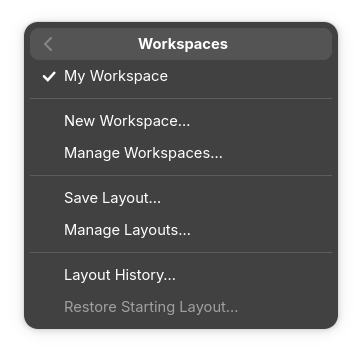
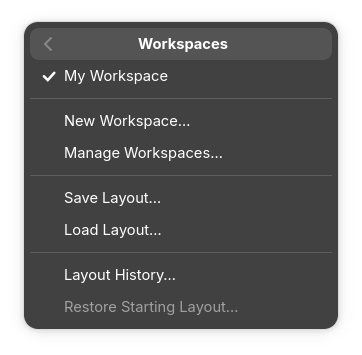
Finalize approved GTK workspace manager and host handoff

Changed region(s): [[0.1823, 0.6197, 0.5166, 0.6817]]

diff --git a/apps/layer-linux/src/tests.rs b/apps/layer-linux/src/tests.rs
@@ -13648,7 +13648,7 @@ fn native_workspace_menu_input() {
             );
             let workspace = menu_label(popup.upcast_ref(), "Workspaces").unwrap();
             click(popup_point(&popup, &workspace), 272);
-            let templates = menu_label(popup.upcast_ref(), "Manage Layouts…").unwrap();
+            let templates = menu_label(popup.upcast_ref(), "Load Layout…").unwrap();
             click(popup_point(&popup, &templates), 272);
             assert!(w.workspaces.ui.dialog.is_visible());
             assert!(find_button(w.window.upcast_ref(), "Load Layout").is_some());
@@ -13693,6 +13693,19 @@ fn native_workspace_menu_input() {
                     .as_deref(),
                 Some("Save Layout")
             );
+            assert_eq!(
+                entry.downcast_ref::<gtk::Entry>().unwrap().text().as_str(),
+                format!(
+                    "{} Layout",
+                    w.workspaces
+                        .manager
+                        .as_ref()
+                        .unwrap()
+                        .active_name()
+                        .unwrap()
+                )
+            );
+            crate::capture(&w, dir.join("Save-Layout.png").to_str().unwrap());
             let cancel = find_button(&prompt, "Cancel")
                 .unwrap()
                 .compute_bounds(&w.window)

diff --git a/crates/layer-ui/src/session.rs b/crates/layer-ui/src/session.rs
@@ -3938,7 +3938,7 @@ mod tests {
                 .collect::<Vec<_>>(),
             vec![
                 vec!["New Workspace…", "Manage Workspaces…"],
-                vec!["Save Layout…", "Manage Layouts…"],
+                vec!["Save Layout…", "Load Layout…"],
                 vec!["Layout History…", "Restore Starting Layout…"],
             ]
         );
@@ -3952,7 +3952,7 @@ mod tests {
                 .sections
                 .iter()
                 .flatten()
-                .any(|item| item.label == "Manage Layouts…")
+                .any(|item| item.label == "Load Layout…")
         );
         assert_eq!(menu.sections[1].len(), 2);
         let toolbars = &menu.sections[1][1];

diff --git a/apps/layer-linux/src/workspace_manager_actions.rs b/apps/layer-linux/src/workspace_manager_actions.rs
@@ -435,7 +435,9 @@ impl NativeWorkspaces {
         let mut name = match &action {
             A::Rename(_) => source.as_ref().unwrap().entity.metadata.name.clone(),
             A::Duplicate(_) => format!("{} Copy", source.as_ref().unwrap().entity.metadata.name),
-            A::SaveAsTemplate(_) => source.as_ref().unwrap().entity.metadata.name.clone(),
+            A::SaveAsTemplate(_) => {
+                format!("{} Layout", source.as_ref().unwrap().entity.metadata.name)
+            }
             A::SaveToolbar(panel) => manager
                 .current()
                 .unwrap()

diff --git a/crates/layer-ui/src/workspace_manager_ui.rs b/crates/layer-ui/src/workspace_manager_ui.rs
@@ -70,7 +70,7 @@ impl ManagedWorkspace {
                 ],
                 vec![
                     command("Save Layout…", WorkspaceCommand::SaveAsTemplate, idle),
-                    command("Manage Layouts…", WorkspaceCommand::ManageTemplates, true),
+                    command("Load Layout…", WorkspaceCommand::ManageTemplates, true),
                 ],
                 vec![
                     command("Layout History…", WorkspaceCommand::LayoutHistory, idle),

diff --git a/docs/ui/workspace-manager-host-handoff.md b/docs/ui/workspace-manager-host-handoff.md
@@ -1,0 +1,168 @@
+# Workspace manager: approved host implementation handoff
+
+The user approved the GTK design on 2026-09-12. Other-platform implementation can
+start. This document and the [GTK visual reference](workspace-manager-gtk-redesign.md)
+define the approved scope. The [original proposal](workspace-manager-proposal.md)
+and its review are historical background; their larger UI is superseded.
+
+## Product contract
+
+| Term | Meaning |
+| --- | --- |
+| Workspace | A named layout and its latest tool settings, saved automatically for a task |
+| Saved layout | A named, reusable arrangement of tools and panels, including toolbar configuration |
+| Layout History | Earlier arrangements of the current workspace; excludes historical tool settings and document edits |
+| Starting layout | The workspace's original arrangement, retained even after loading another saved layout |
+
+Use the exact shared captions and introductory copy in
+[`workspace_manager_ui.rs`](../../crates/layer-ui/src/workspace_manager_ui.rs) and
+the GTK reference. Internal names such as `Template`, `ManageTemplates`,
+`SaveAsTemplate`, and `UseTemplate` are compatibility vocabulary, not UI wording.
+Do not rename serialized record kinds, command IDs, or package formats just to
+match the visible Layout terminology.
+
+## Approved UI and behavior
+
+The Window menu starts with Undo Layout Change / Redo Layout Change, then
+Workspaces, then Quick Access Toolbars, followed by the direct panel rows.
+Quick Access Toolbars is a sibling directly below Workspaces. Panel and toolbar
+visibility names omit the redundant "panel" and "toolbar" suffixes.
+
+Workspaces contains recent workspace choices followed by three sections:
+
+1. New Workspace… / Manage Workspaces…
+2. Save Layout… / Load Layout…
+3. Layout History… / Restore Starting Layout…
+
+Recent workspace menu choices switch directly. The manager dialogs use preview
+selection and explicit confirmation instead:
+
+- **Workspaces:** compact selectable list, top-right square + for New Workspace,
+  per-row Rename/Delete options, Cancel and Switch to Workspace below the list.
+  Initially select the current workspace and disable its Switch button. An item
+  already owned by another window offers Switch to Window through the existing
+  ownership policy.
+- **Saved Layouts:** opened by Load Layout…, with a top-right + for Save Layout,
+  per-row Rename/Delete for user entries, Cancel and Load Layout below the list.
+  Initially no row is selected and Load Layout is disabled. The included Default
+  layout can be loaded but cannot be renamed/deleted. Save Layout suggests
+  `<workspace name> Layout`; the name is editable and ordinary collision handling
+  remains in place.
+- **Layout History — <workspace name>:** one scrollable list of versions, Cancel,
+  and Restore This Version. Select the current version initially and disable its
+  Restore button. Entries identify affected panels/toolbars and the action/date.
+  Do not add "select a version to preview" instructions.
+
+In all three dialogs, row selection, double-click, and Enter on a row only preview
+the arrangement in the actual editor behind the dialog. Confirming with the
+button finalizes it. Cancel, Escape, back navigation, and native modal dismissal
+restore the original arrangement. Use opaque dialogs and a light enough backdrop
+to see the preview. Adapt sizing to the host and viewport without changing these
+semantics; retain keyboard focus, accessibility labels, and scrollable lists.
+
+New Workspace supports a name and starting layout. Starting from Current layout
+copies the current working settings into a new independent history. Starting from
+a saved layout uses default working settings. Loading a saved layout into an
+existing workspace preserves its identity, starting layout, and working settings.
+It creates one undoable layout change, or no event if the layout is identical.
+Restore Starting Layout restores the original baseline with one undoable change.
+
+Keep the existing simple toolbar management flow. Do not add Recently Deleted,
+backup/import/export, metadata or saved-layout version screens, duplication/update
+controls, network sync, or device-specific layout variants. Some underlying APIs
+remain for compatibility and retention; their existence does not expand the UI.
+Failed saves still need the existing Retry / Save as New Workspace recovery, and
+failed close must preserve the option to keep the window open.
+
+## Shared implementation to reuse
+
+| Responsibility | Reference |
+| --- | --- |
+| Working state, captures, prepared adoption, temporary previews | [`workspace_session.rs`](../../crates/layer-ui/src/workspace_session.rs) |
+| Menu and command dispatch | [`workspace_manager_ui.rs`](../../crates/layer-ui/src/workspace_manager_ui.rs), `UiSession::workspace_menu` |
+| Entity validation, storage policy, ownership, mutations | [`layer-workspace`](../../crates/layer-workspace/src/lib.rs), `WorkspaceManager<S>` |
+| Lists, action availability, prompts | [`presentation.rs`](../../crates/layer-workspace/src/presentation.rs) |
+| Asynchronous store protocol | [`protocol.rs`](../../crates/layer-workspace/src/protocol.rs), `WorkspaceStore::execute` |
+| Native SQLite and worker | [`sqlite.rs`](../../crates/layer-workspace/src/sqlite.rs), [`worker.rs`](../../crates/layer-workspace/src/worker.rs) |
+| GTK lifecycle and recovery reference | [`workspace_manager.rs`](../../apps/layer-linux/src/workspace_manager.rs), `workspace_manager_actions.rs`, `workspace_manager_storage.rs` |
+| GTK selection/confirmation and preview lifetime | [`workspace_manager_dialog.rs`](../../apps/layer-linux/src/workspace_manager_dialog.rs), [`workspace_history_dialog.rs`](../../apps/layer-linux/src/workspace_history_dialog.rs) |
+
+Hosts own toolkit controls, async transport, lifecycle notifications, and native
+window focus. Keep workspace decisions in shared Rust. In particular:
+
+- Capture accepted edits through `capture_workspace`/`workspace_working_state`;
+  use `WorkspaceManager` for autosave, naming, loading, claims, and publication.
+  Do not serialize widget state or implement a second workspace model in a host.
+- Switch/adopt only at a document/workspace idle boundary. Prepare and validate the
+  incoming capture, retain the outgoing state on failure, and use
+  `PreparedWorkspace`/`adopt_workspace`. The legacy `RestoreWorkspace` action
+  clears history and is not the named-workspace adoption path.
+- During previews, hold the workspace transition, block editor mutations/autosave
+  of temporary arrangements, and renew ownership with `OWNER_RENEW_MS`. Durable
+  captures must still return the pre-preview state. Cancel the preview before
+  beginning Save/New/Rename/Delete or committing a selection. Resume it only if
+  the manager remains open after a secondary action.
+- Invalidate asynchronous loads when selection, search results, dialog lifetime,
+  or workspace changes. Clearing the selection restores the original layout and
+  disables confirmation. Late replies must not resurrect a cancelled preview.
+- Use fenced writes and immutable operation receipts. Retry the original operation
+  without duplicating history/items; never overwrite another window's workspace
+  after suspension or ownership loss. Preserve pending edits on save failures.
+- Preserve the existing retained-control rendering and resize behavior. Workspace
+  integration should not introduce database I/O or widget rebuilding on pointer
+  motion paths, or disturb document strokes, transforms, undo, or rendering.
+
+## Platform work and coordination
+
+| Host | Work still required |
+| --- | --- |
+| Web (`apps/layer-web`) | IndexedDB implementation of the shared store protocol; Wasm async transport, DOM dialogs, tab ownership, visibility/page lifecycle, legacy localStorage migration |
+| Android (`apps/layer-android`) | Shared native worker/manager bridge, app-private directory, Compose dialogs, activity/suspend/recreate lifecycle, legacy state migration |
+| Apple (`apps/layer-apple`) | Shared native worker/manager bridge, persistent app directory, native macOS/iOS dialogs, independent scene ownership, scene persistence migration and lifecycle |
+| Windows (`apps/layer-windows`) | Shared native worker/manager bridge, app-data directory, WinUI dialogs, independent windows, lifecycle and existing-state migration |
+
+Native hosts use `layer-workspace` with its `native` feature and one
+`StoreWorker::shared` service per installation directory. Keep disk work off the
+UI/render thread; await or poll replies instead of using blocking `StoreReply::wait`
+there. Web needs the actual IndexedDB adapter; native SQLite being complete does
+not mean web storage already exists. IndexedDB must validate generations/ownership
+and atomically publish the complete prepared batch, acknowledging transaction
+completion rather than individual request success.
+
+Implement idempotent migration of each host's existing state, with stable source
+mapping/import markers committed atomically. Preserve multiple Apple scenes and
+unreadable/newer legacy data; do not replace existing user state with defaults.
+See the proposal's storage/migration contract and current Rust protocol for detail.
+
+Before parallel host changes touch `crates/layer-host`, shared command transport,
+or common store types, agree on one owner for each additive bridge change. Keep
+platform UI work in its host tree and integrate shared additions from main rather
+than creating incompatible copies of the manager/protocol. No broad shared-code
+refactor is a prerequisite to starting the host work.
+
+## Acceptance evidence for each host
+
+1. Real native/browser input opens menus, both + dialogs, row options, and history.
+   Capture and inspect screenshots against the approved GTK reference.
+2. Selection previews without switching, saving, or adding history. Verify rapid
+   selections, filtering away a selection, Cancel/Escape/back, and dismissal while
+   a load is pending. Verify default saved-layout naming and explicit button apply.
+3. Load Layout preserves current workspace identity/tool settings/baseline and is
+   undoable once. Switch to Workspace restores that workspace's own latest tool
+   settings. Layout History and Restore Starting Layout preserve tool settings.
+4. Restart preserves active workspaces, settings, layout history, and undo/redo.
+   Live tool changes do not create layout history; gestures create one event.
+5. Existing legacy state migrates once, including interrupted/concurrent startup.
+   Multiple windows/tabs/scenes remain independent; takeover blocks stale writes.
+6. Save/load failures, unavailable/full storage, lost acknowledgements, and
+   lifecycle interruption preserve user state and expose usable recovery. Web
+   additionally covers IndexedDB aborts/upgrades/quota and storage availability.
+7. Modal close/confirmation and normal editor input still work; no regression to
+   retained controls, resize/drag behavior, artwork, or input/render performance.
+
+Run the shared UI/store suite and the host's relevant build and integration checks.
+For Web, run the store contract cases against IndexedDB itself. GTK reference
+checks are `native_named_workspace_manager_templates_library_and_history` and
+`apps/layer-linux/bench/workspace-menus.sh`; their bodies show assertions and
+safe isolation requirements. Record actual host test/build/screenshot evidence;
+GTK approval alone does not certify another platform implementation.

diff --git a/docs/history/workspace-manager-gtk-progress.md b/docs/history/workspace-manager-gtk-progress.md
@@ -3,9 +3,11 @@
 Target: implement [the proposal](../ui/workspace-manager-proposal.md) on GTK,
 validate it in the native application, and obtain user approval before adapting
 other hosts. Publish notable, tested milestones to main and integrate concurrent
-main changes. GTK implementation and automated/native acceptance checks are now
-complete through milestone 5; user review and approval remain pending. This record
-does not claim approval or acceptance of the other hosts.
+main changes. GTK implementation and validation are complete, and the user approved
+the design on 2026-09-12. Other hosts can proceed from the
+[approved handoff](../ui/workspace-manager-host-handoff.md). Their implementations
+and platform acceptance checks remain outstanding. Earlier approval/status notes
+below describe historical checkpoints rather than the current gate.
 
 ## Milestone 1: shared state and restoration
 
@@ -416,3 +418,25 @@ also passed all 264 UI tests (`/tmp/workspace-layout-terms-copy-check.log`).
 Inspected fresh manager, history, and menu screenshots and updated the review
 guide. The renamed layouts screenshot is `workspace-manager-gtk/layouts.png`.
 Ready for another GTK review before adapting other hosts.
+
+## User approval and host handoff — 2026-09-12
+
+The user approved the design as sufficient for other-platform implementation.
+Finalized the Load Layout menu caption and the `<workspace name> Layout` default
+name, and recorded approval in the visual reference. The native pointer test
+now checks the actual default name in the + save dialog; it passes in 9.93s
+(`/tmp/capy-workspace-menus.7TsOLw`). The release build also passes
+(`/tmp/workspace-approved-build.log`). Fresh menu/save-dialog screenshots were
+inspected and added to the guide. The existing focused shared menu test passed
+when its final caption was changed.
+
+Added [the host handoff](../ui/workspace-manager-host-handoff.md) with approved
+scope, shared APIs, platform work, coordination of common bridge changes, and
+acceptance requirements. Marked the original proposal/review as historical and
+corrected the UI guides' obsolete statements that GTK had no named workspaces.
+Internal compatibility names and stored formats remain intact; unexposed legacy
+APIs are not instructions to restore removed UI features.
+
+GTK implementation, validation, and user approval are complete. There is no
+remaining GTK cleanup prerequisite for the other hosts; their platform-specific
+storage/bridge, lifecycle, migration, UI, and acceptance work is next.

diff --git a/docs/ui/workspace-manager-gtk-redesign.md b/docs/ui/workspace-manager-gtk-redesign.md
@@ -1,7 +1,9 @@
-# GTK workspace manager review
+# Approved GTK workspace manager design
 
-Updated for the latest user feedback, 2026-09-12. Ready for another GTK review
-before adapting other hosts.
+Approved by the user on 2026-09-12, including the final Load Layout menu label
+and the default saved-layout name. This is the visual reference for other hosts;
+use the [host implementation handoff](workspace-manager-host-handoff.md) for scope,
+integration responsibilities, and acceptance checks.
 
 ## Menus
 
@@ -11,7 +13,7 @@ in the main Window menu. Its entries keep their short names.
 Workspaces groups its commands by purpose:
 
 - New Workspace / Manage Workspaces
-- Save Layout / Manage Layouts
+- Save Layout / Load Layout
 - Layout History / Restore Starting Layout
 
 Undo Layout Change and Redo Layout Change describe what the top-level actions undo.
@@ -45,6 +47,10 @@ introduction is:
 
 > Layouts save tool and panel arrangements to reuse in any workspace.
 
+The menu entry is **Load Layout…**; the dialog title is **Saved Layouts**. Save
+Layout suggests **<workspace name> Layout**, for example **Painting Layout**.
+The name remains editable; existing-name conflicts use the normal naming dialog.
+
 Selecting a row previews the layout without applying it. Load Layout applies the
 selection to the **current workspace** and closes the dialog, creating one undoable
 layout change. Cancel or closing restores the original layout. The included
@@ -54,6 +60,8 @@ Recently Deleted, backups, import/export, and version-management controls remain
 absent from these managers.
 
 ![Saved layout list with preview](workspace-manager-gtk/layouts.png)
+
+![Save Layout name](workspace-manager-gtk/save-layout.png)
 
 ## Layout History
 
@@ -75,7 +83,7 @@ Close the older GTK instance and run from the repository root:
 cargo run --locked --release -p layer-linux
 ```
 
-Review Window → Workspaces, both managers, and Layout History. Save a layout
+Check Window → Workspaces, both managers, and Layout History. Save a layout
 using **+**, move a panel, preview that saved layout, then load it
 and undo the change. Also preview another workspace and cancel before trying
 Switch to Workspace.

diff --git a/docs/ui/shared-ui.md b/docs/ui/shared-ui.md
@@ -65,9 +65,14 @@ complete dock layout, and Zen mode. Save that value using Serde; restore it via
 `UiAction::RestoreWorkspace { workspace }`. Validation rejects unsupported
 versions, missing/duplicate panels, invalid selections/ratios/extents, duplicate
 node IDs, and invalid ID allocation state before any live state changes. A
-restore does not edit the document or move the current camera. Android, Apple and web persist workspace state across launches; GTK
-currently starts from its default. A named-workspace picker is not implemented.
-Hosts handle storage rather than reconstructing layout decisions from widgets.
+restore does not edit the document or move the current camera. This is the legacy
+single-workspace API. GTK's approved named-workspace manager uses `WorkspaceCapture`,
+`PreparedWorkspace`, and `layer-workspace` to preserve separate tool settings,
+layout history/navigation, and the starting layout. Other hosts must follow the
+[workspace-manager handoff](workspace-manager-host-handoff.md) when migrating;
+do not implement named switching with `RestoreWorkspace`, which clears history.
+Hosts provide asynchronous storage transport rather than reconstructing layout
+decisions from widgets.
 
 `UiSession::layout` supplies the standard workspace rectangles.
 `UiSession::drop_hint` validates a proposed target with the same transactional

diff --git a/docs/ui/workspace-manager-proposal.md b/docs/ui/workspace-manager-proposal.md
@@ -1,9 +1,18 @@
 # Workspace manager proposal
 
-Design proposal, 2026-09-11, updated with the workspace-storage discussion.
+**Historical proposal.** GTK is implemented and its design was approved on
+2026-09-12. Start other-host work from the
+[approved implementation handoff](workspace-manager-host-handoff.md) and
+[GTK visual reference](workspace-manager-gtk-redesign.md). Those documents
+supersede this proposal's UI, terminology, feature list, and implementation status.
+In particular, do not reintroduce the removed backup/export, Recently Deleted,
+metadata/version-management, or template-management screens described below.
+The storage/ownership rationale remains useful background alongside current code.
+
+Original design proposal, 2026-09-11, updated with the workspace-storage discussion.
 Based on the reviewed working tree and the official product documentation linked
-below. This describes intended behavior; the proposed manager and persistence
-changes are not implemented. A future raster document format is assumed for
+below. The remaining text records the original intended behavior and pre-implementation
+code assessment. A future raster document format was assumed for
 planning and is outside this workspace task.
 
 ## Recommendation

diff --git a/docs/ui/README.md b/docs/ui/README.md
@@ -64,9 +64,12 @@ resize behavior and configuration.
 
 [`WorkspaceState`](../../crates/layer-ui/src/workspace.rs) is the durable layout
 value. Transient menus, native widgets and unfinished gestures are not serialized.
-Android, Apple and web persist this state across launches; GTK currently starts
-from its default layout. There is no named-workspace picker.
-Workspace undo is separate from document undo. A drag is treated as one layout
+GTK now uses `layer-workspace` for named workspaces, saved layouts, automatic
+saving, and durable layout history. Workspaces include latest tool settings;
+saved layouts contain reusable arrangements. Other hosts' legacy workspace
+persistence remains the migration source as they adopt the
+[approved workspace-manager design and handoff](workspace-manager-host-handoff.md).
+Layout undo is separate from document undo. A drag is treated as one layout
 change, and cancelling it restores the original arrangement.
 
 ## Zen mode and the camera

diff --git a/docs/ui/workspace-manager-review.md b/docs/ui/workspace-manager-review.md
@@ -1,5 +1,9 @@
 # Workspace manager plan review
 
+Historical review of the original proposal. For the user-approved UI and current
+host rollout scope, use the [implementation handoff](workspace-manager-host-handoff.md).
+The removed maintenance/export screens discussed below are not rollout requirements.
+
 Reviewed 2026-09-11. A separate reviewer received the plan and repository path
 with no conversation history. It examined the design, relevant implementation
 and primary browser documentation. This record describes design corrections;
